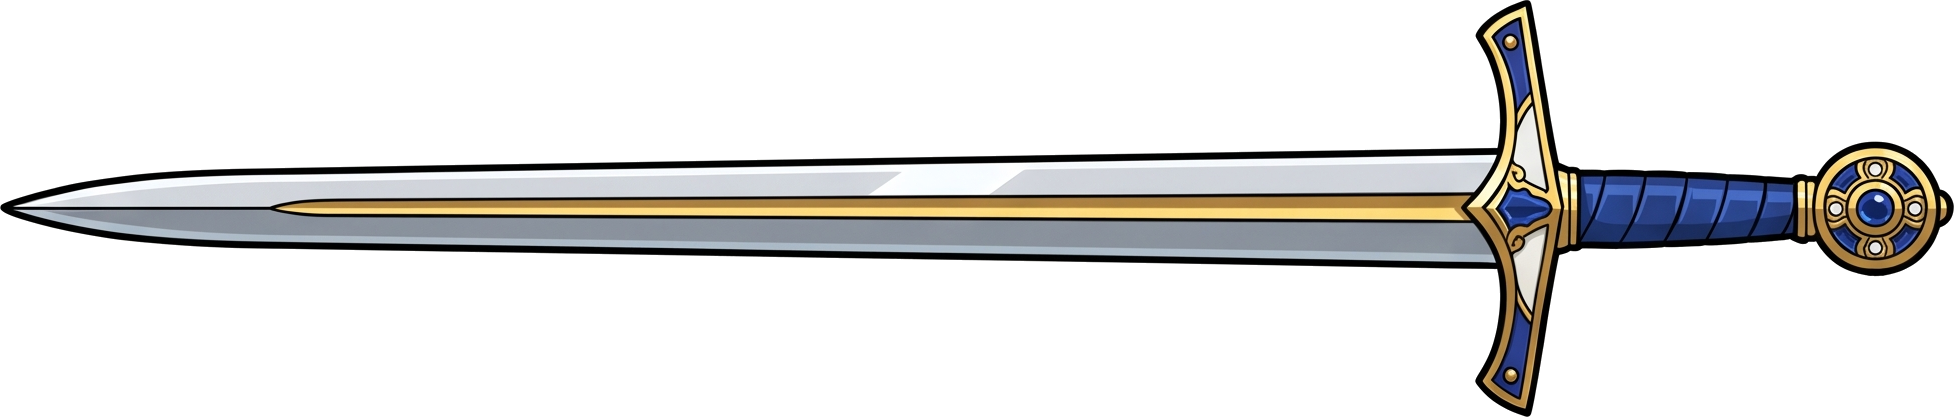
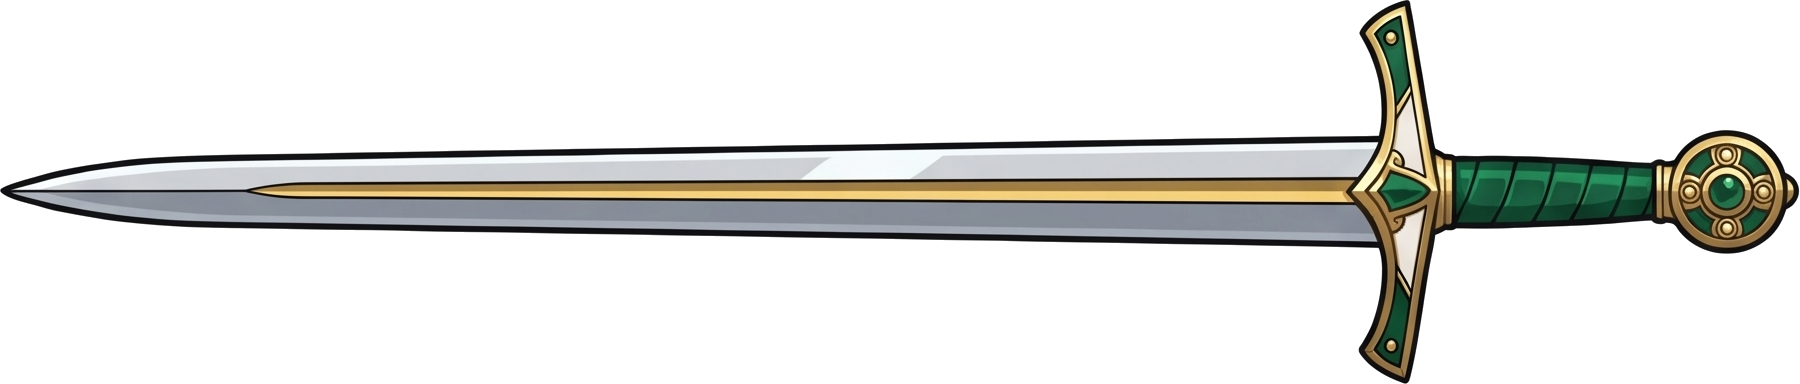
무기: 고친 여섯 자루 바꿔 끼움
Claude-Session: https://claude.ai/code/session_019ctizXkAJK8e2QXDcDEkS2

Changed region(s): [[0.0, 0.0312, 1.0, 0.9688], [0.0622, 0.5625, 0.5289, 0.625]]

diff --git a/tools/무기모두자르기.py b/tools/무기모두자르기.py
@@ -1,5 +1,5 @@
 #!/usr/bin/env python3
-"""무기 그림 열 장(art/무기/원본/01~10.png)을 한 자루씩 잘라 art/무기/ 에 이름으로 저장한다.
+"""무기 그림(art/무기/원본/01~12.png)을 한 자루씩 잘라 art/무기/ 에 이름으로 저장한다.
 
   python3 tools/무기모두자르기.py          # 열 장 모두
   python3 tools/무기모두자르기.py 4 9      # 4번과 9번 그림만
@@ -26,6 +26,9 @@ SHEETS = {
     9: (['돌에박혀있던검', '잊혀진기사단의검', '마녀의검', '되찾은이름의검'],
         [(1400, 1184), (1440, 1176), (1568, 1156), (1652, 1228), (1184, 1356), (1392, 1368), (1572, 1400)]),   # 마녀의 검 덩굴 사이
     10: (['새벽의검', '오로라검', '모래시계검', '기억의검'], []),
+    # 11, 12: 한 자루씩 고친 것(그림 주문-무기 고치기.md). 같은 이름의 앞 그림을 덮어쓴다.
+    11: (['사냥꾼의칼', '가시덩굴검', '등불검'], []),
+    12: (['기사의긴검', '기사단장의검', '기억의검'], []),
 }
 
 # 덩굴처럼 가는 선이 얽혀서 작은 흰 배경 조각이 많이 남는 무기. 무기 안에 순백으로 칠한 곳이 없을 때만 적는다.

diff --git a/잊혀진 기사 키우기 세계관/무기 도감.md b/잊혀진 기사 키우기 세계관/무기 도감.md
@@ -20,7 +20,7 @@
 | 3 | 일반 | 수습기사의 검 | 꾸밈 없는 회색 쇠 검 | 루가 들고 떠난 검 |
 | 4 | 일반 | 경비대의 칼 | 놋쇠 손잡이 막이에 방패 표시가 있는 튼튼한 칼 | 2화 하린 |
 | 5 | 일반 | 청동 검 | 가운데가 볼록한 나뭇잎 모양의 누런 청동 날 | 청동기 시대의 잎 모양 검 |
-| 6 | 일반 | 사냥꾼의 칼 | 한쪽 날이 살짝 굽은 칼, 뿔 손잡이 | 1구역 숲 |
+| 6 | 일반 | 사냥꾼의 칼 | 검은 쇠 외날이 살짝 굽은 칼, 뽀얀 뿔 손잡이와 초록 끈 | 1구역 숲 |
 | 7 | 일반 | 뱃사람의 칼 | 짧고 넓게 굽은 날, 손을 덮는 둥근 쇠 막이 | 커틀러스 · 7구역 항구 |
 | 8 | 일반 | 넓은 검 | 날이 넓고 가운데 홈이 팬 양날 검 |  |
 | 9 | 고급 | 낫 모양 검 | 날 앞쪽 절반이 낫처럼 크게 휜 청동 검 | 고대의 휜 검(코페시) |
@@ -33,16 +33,16 @@
 | 16 | 고급 | 은검 | 가는 무늬를 새긴 밝은 은빛 날 | 4구역 은광 |
 | 17 | 희귀 | 찌르기 검 | 날 없이 송곳처럼 뾰족하고 긴 검 | 에스터크(갑옷 틈을 찌르는 검) |
 | 18 | 희귀 | 물결 검 | 날이 물결처럼 구불구불한 검 |  |
-| 19 | 희귀 | 기사의 긴 검 | 길고 곧은 양날, 긴 십자 막이, 긴 손잡이 | 롱소드 |
+| 19 | 희귀 | 기사의 긴 검 | 길고 곧은 양날에 금빛 줄, 초록 칠보 십자 막이와 초록 손잡이 | 롱소드 |
 | 20 | 희귀 | 도른의 검 | 흠 없는 검푸른 날, 편자 모양의 대장간 표시 | 4화 할아버지 도른 |
 | 21 | 희귀 | 달밤의 칼 | 살짝 굽은 외날, 초승달이 뚫린 둥근 막이 | 8구역 섬 |
-| 22 | 희귀 | 가시덩굴 검 | 덩굴이 감긴 짙은 초록 날, 등에 가시 | 6구역 달빛 숲 |
+| 22 | 희귀 | 가시덩굴 검 | 덩굴이 감긴 짙은 초록 날, 붉은 장미, 금 덩굴을 감은 초록 손잡이와 금빛 장미 봉오리 | 6구역 달빛 숲 |
 | 23 | 희귀 | 수정 검 | 속이 비치는 보랏빛 수정 날 |  |
 | 24 | 희귀 | 폭풍의 검 | 번개 모양 무늬가 옅게 빛나는 날 | 5구역 바람고개 |
 | 25 | 영웅 | 얼음 검 | 얼음처럼 맑은 하늘색 날, 서리 모양 막이 | 기사의 하늘색 눈 |
 | 26 | 영웅 | 불꽃 검 | 숯빛 날에 달궈진 주황 날끝, 불꽃 모양 금빛 막이 | 기사의 주황 눈 |
-| 27 | 영웅 | 등불 검 | 날 가운데 긴 창이 나 있고 그 안이 등불처럼 빛남 | 등불 |
-| 28 | 영웅 | 기사단장의 검 | 흰빛과 금빛의 긴 검, 푸른 장식 | 7화 아빠 카델 |
+| 27 | 영웅 | 등불 검 | 검은 강철 날 가운데 긴 창이 주황빛으로 빛남. 금빛 등불 모양 막이, 붉은 손잡이 | 등불 |
+| 28 | 영웅 | 기사단장의 검 | 흰 날에 금빛 줄, 펼친 금빛 날개 막이와 큰 푸른 보석, 사자 머리 손잡이 끝, 푸른 술 | 7화 아빠 카델 |
 | 29 | 영웅 | 용 비늘 검 | 검붉은 비늘이 겹겹이 덮인 날, 송곳니 모양 막이 |  |
 | 30 | 영웅 | 깊은 바다 검 | 물결 모양의 청록 날, 산호 막이와 진주 | 7구역 항구 |
 | 31 | 영웅 | 별빛 검 | 밤하늘빛 날에 작은 별이 박혀 있음 |  |
@@ -54,11 +54,11 @@
 | 37 | 전설 | 새벽의 검 | 밤하늘빛에서 분홍과 금빛으로 밝아지는 날, 떠오르는 해 모양 막이 | 그 밤이 끝나는 아침 |
 | 38 | 전설 | 오로라 검 | 속이 비치는 날 안에 초록과 보랏빛 띠가 흐름 | 세상 끝, 마녀의 집 |
 | 39 | 전설 | 모래시계 검 | 유리 날 안에 금빛 모래가 흐름, 모래시계 모양 막이 | 잃어버린 세 해 |
-| 40 | 전설 | 기억의 검 | 조각 열 개를 이어 붙인 날. 끝은 하늘색, 손잡이 쪽은 주황으로 빛남 | 기억 조각 열 개 |
+| 40 | 전설 | 기억의 검 | 조각 열 개를 이어 붙인 날. 끝은 하늘색, 손잡이 쪽은 주황으로 빛남. 등불 모양 막이, 천 조각을 기운 남색 손잡이, 반은 파랗고 반은 주황인 보석 | 기억 조각 열 개 |
 
 - 그림은 한 장에 네 자루씩 열 장을 뽑았다(`art/무기/원본/01~10.png`). `tools/무기모두자르기.py`가 한 자루씩 잘라 `art/무기/<이름>.png`로 저장한다. 주문 문구는 `그림 주문-무기.md`에 있다.
 - 한눈에 보기: `tools/무기도감판.py`(등급 색 칸), `tools/무기쥐여보기.py`(기사 손에 쥔 모습). 둘 다 이 표의 순서를 읽는다.
-- 11-15: 9번 그림(33~36)은 처음 것이 전설치고 수수해서 다시 뽑았다(처음 것은 `art/무기/원본/09-처음.png`). 한 자루씩 고칠 검 여섯 개는 `그림 주문-무기 고치기.md`에 있다. 순서 바꾸기는 제안만 해 두었고 아직 정하지 않았다.
+- 11-15: 9번 그림(33~36)은 처음 것이 전설치고 수수해서 다시 뽑았다(처음 것은 `art/무기/원본/09-처음.png`). 여섯 자루(사냥꾼의 칼, 가시덩굴 검, 등불 검, 기사의 긴 검, 기사단장의 검, 기억의 검)는 한 자루씩 고쳐 바꿔 끼웠다(`원본/11.png`, `12.png`, 문구는 `그림 주문-무기 고치기.md`). 순서 바꾸기는 제안만 해 두었고 아직 정하지 않았다.
 - 손에 든 길이는 모든 무기가 같다. 아이템 그림의 길이와는 상관없다.
 - 등급은 신화(노랑)에서 끝난다. 신화를 더한 뒤에는 등급을 늘리지 않고, 같은 등급 안에 모양만 다른 무기를 더한다.
 - 다음 등급이 열리는 조건: 지금 등급 8종을 모두 모으고 8종 모두 정해진 강화 레벨까지. 정해진 횟수마다 아직 없는 무기가 반드시 나온다.
